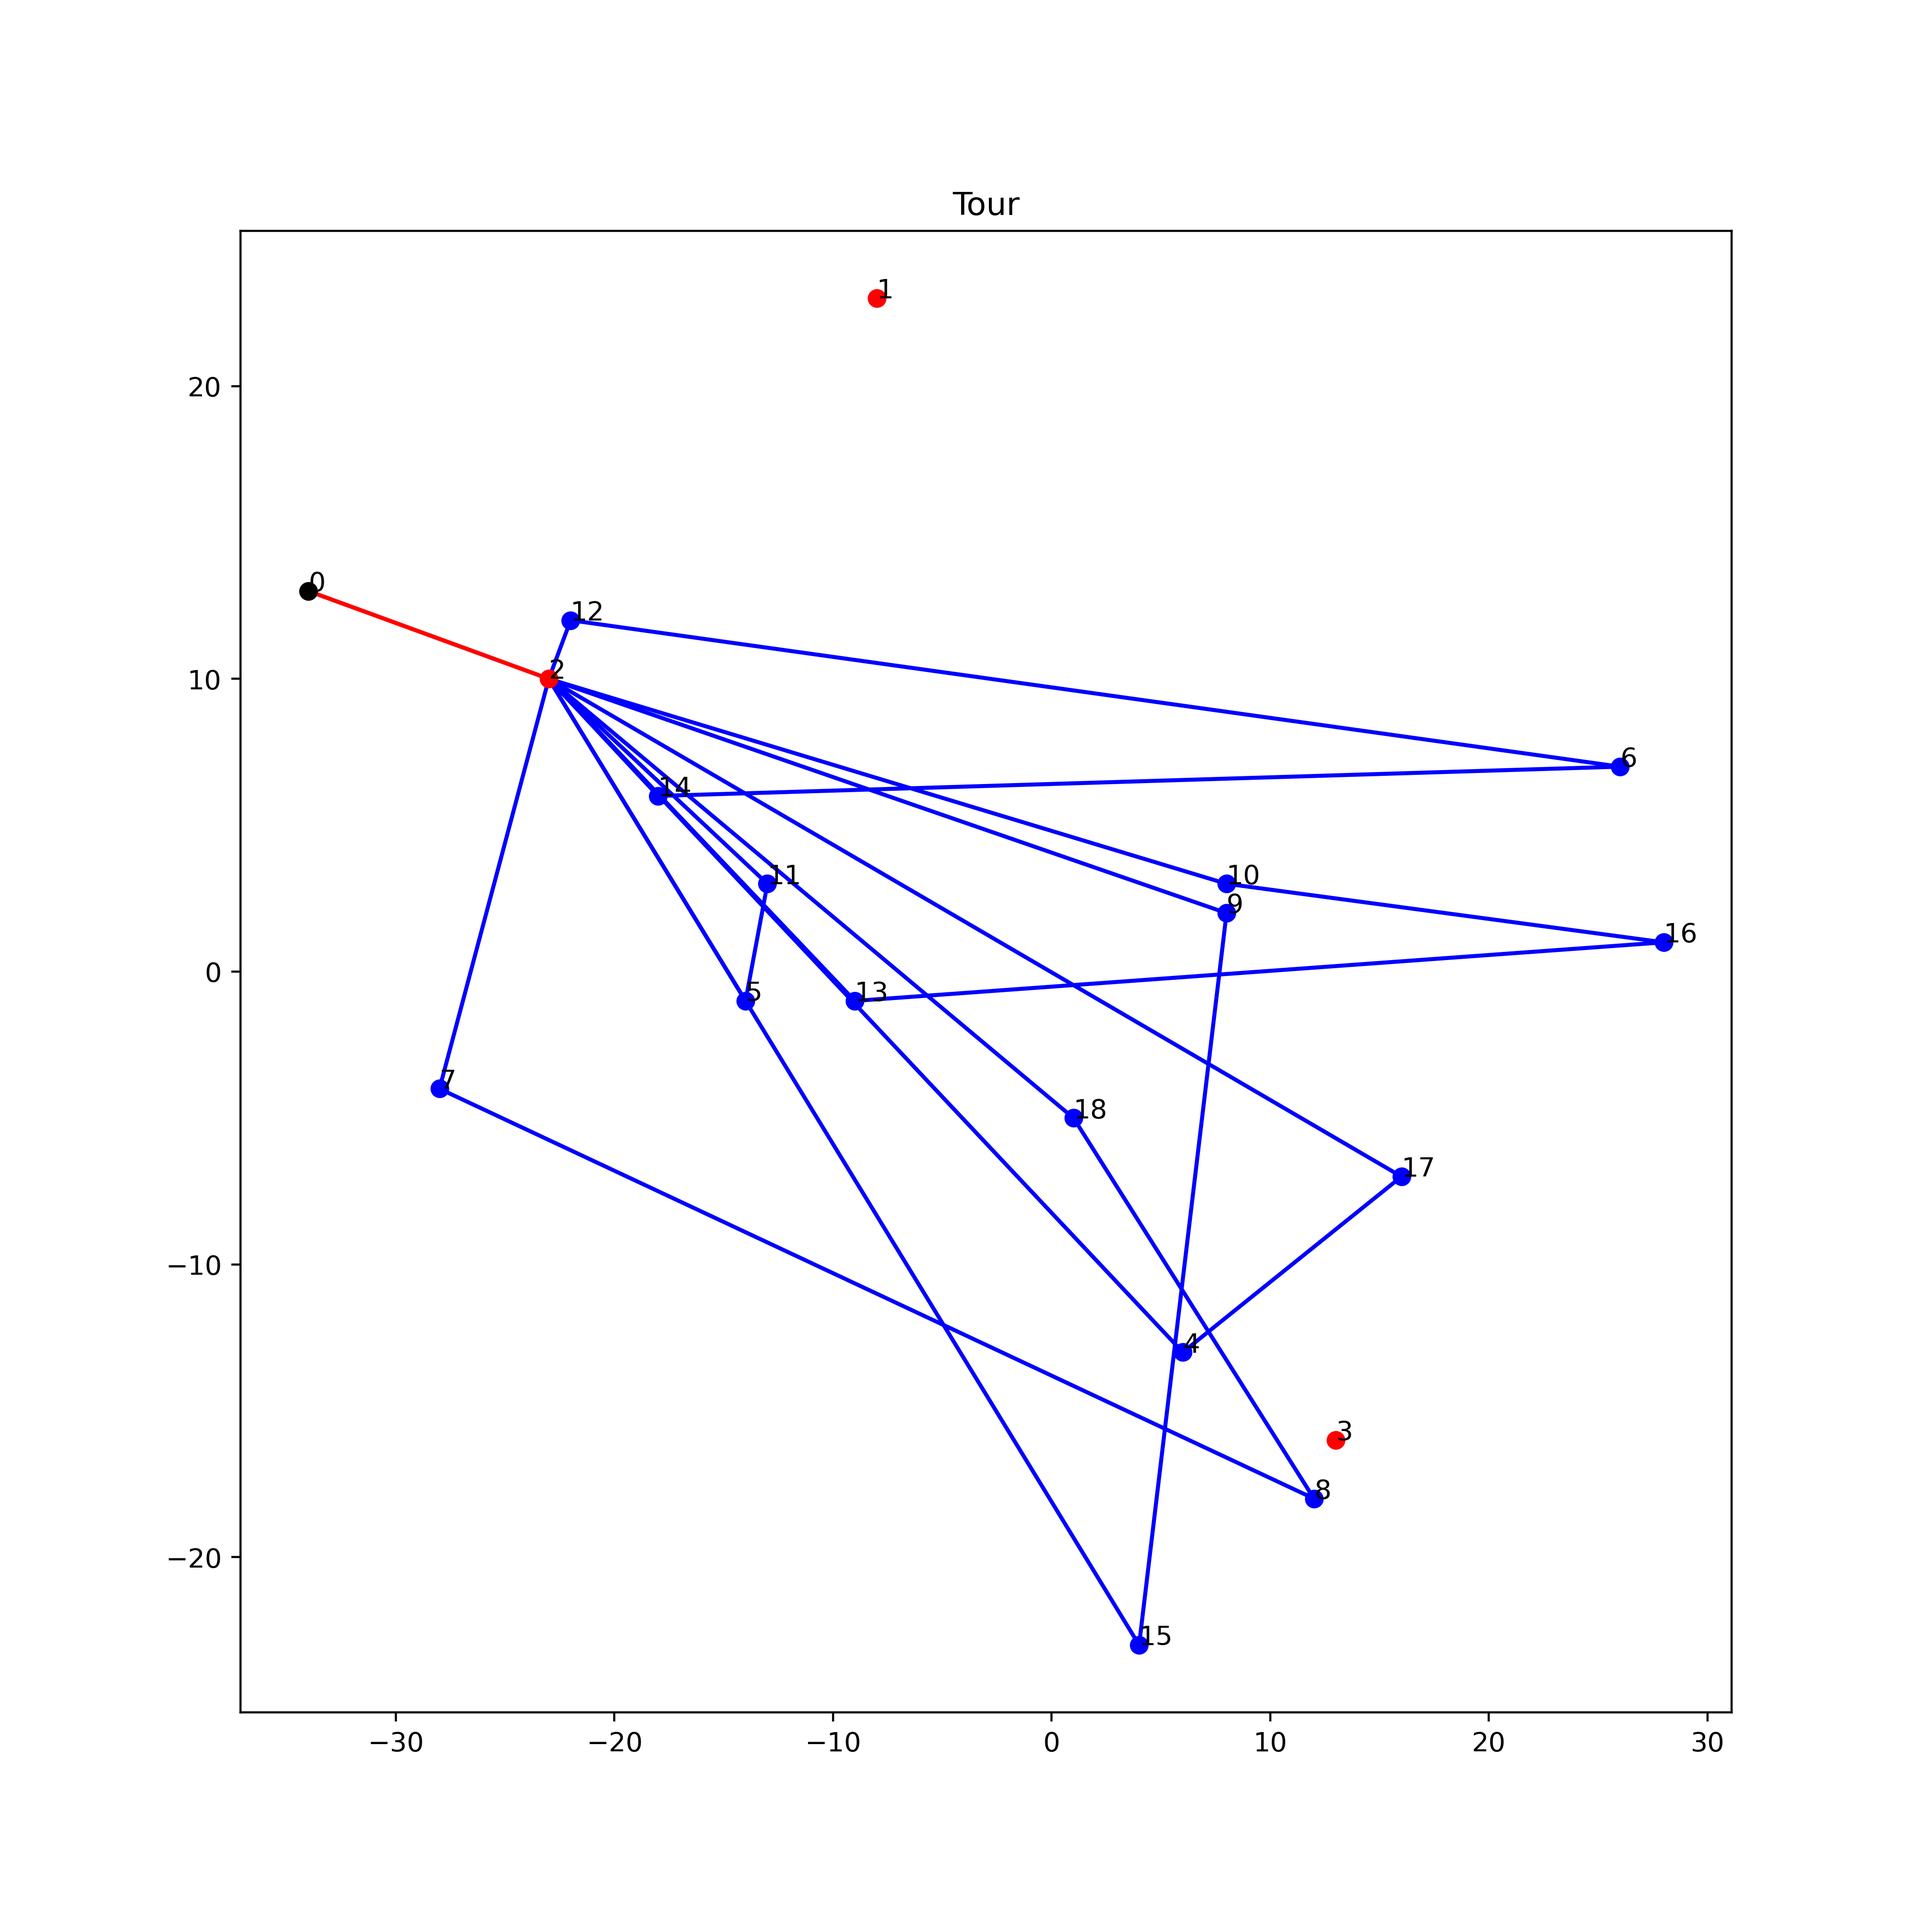
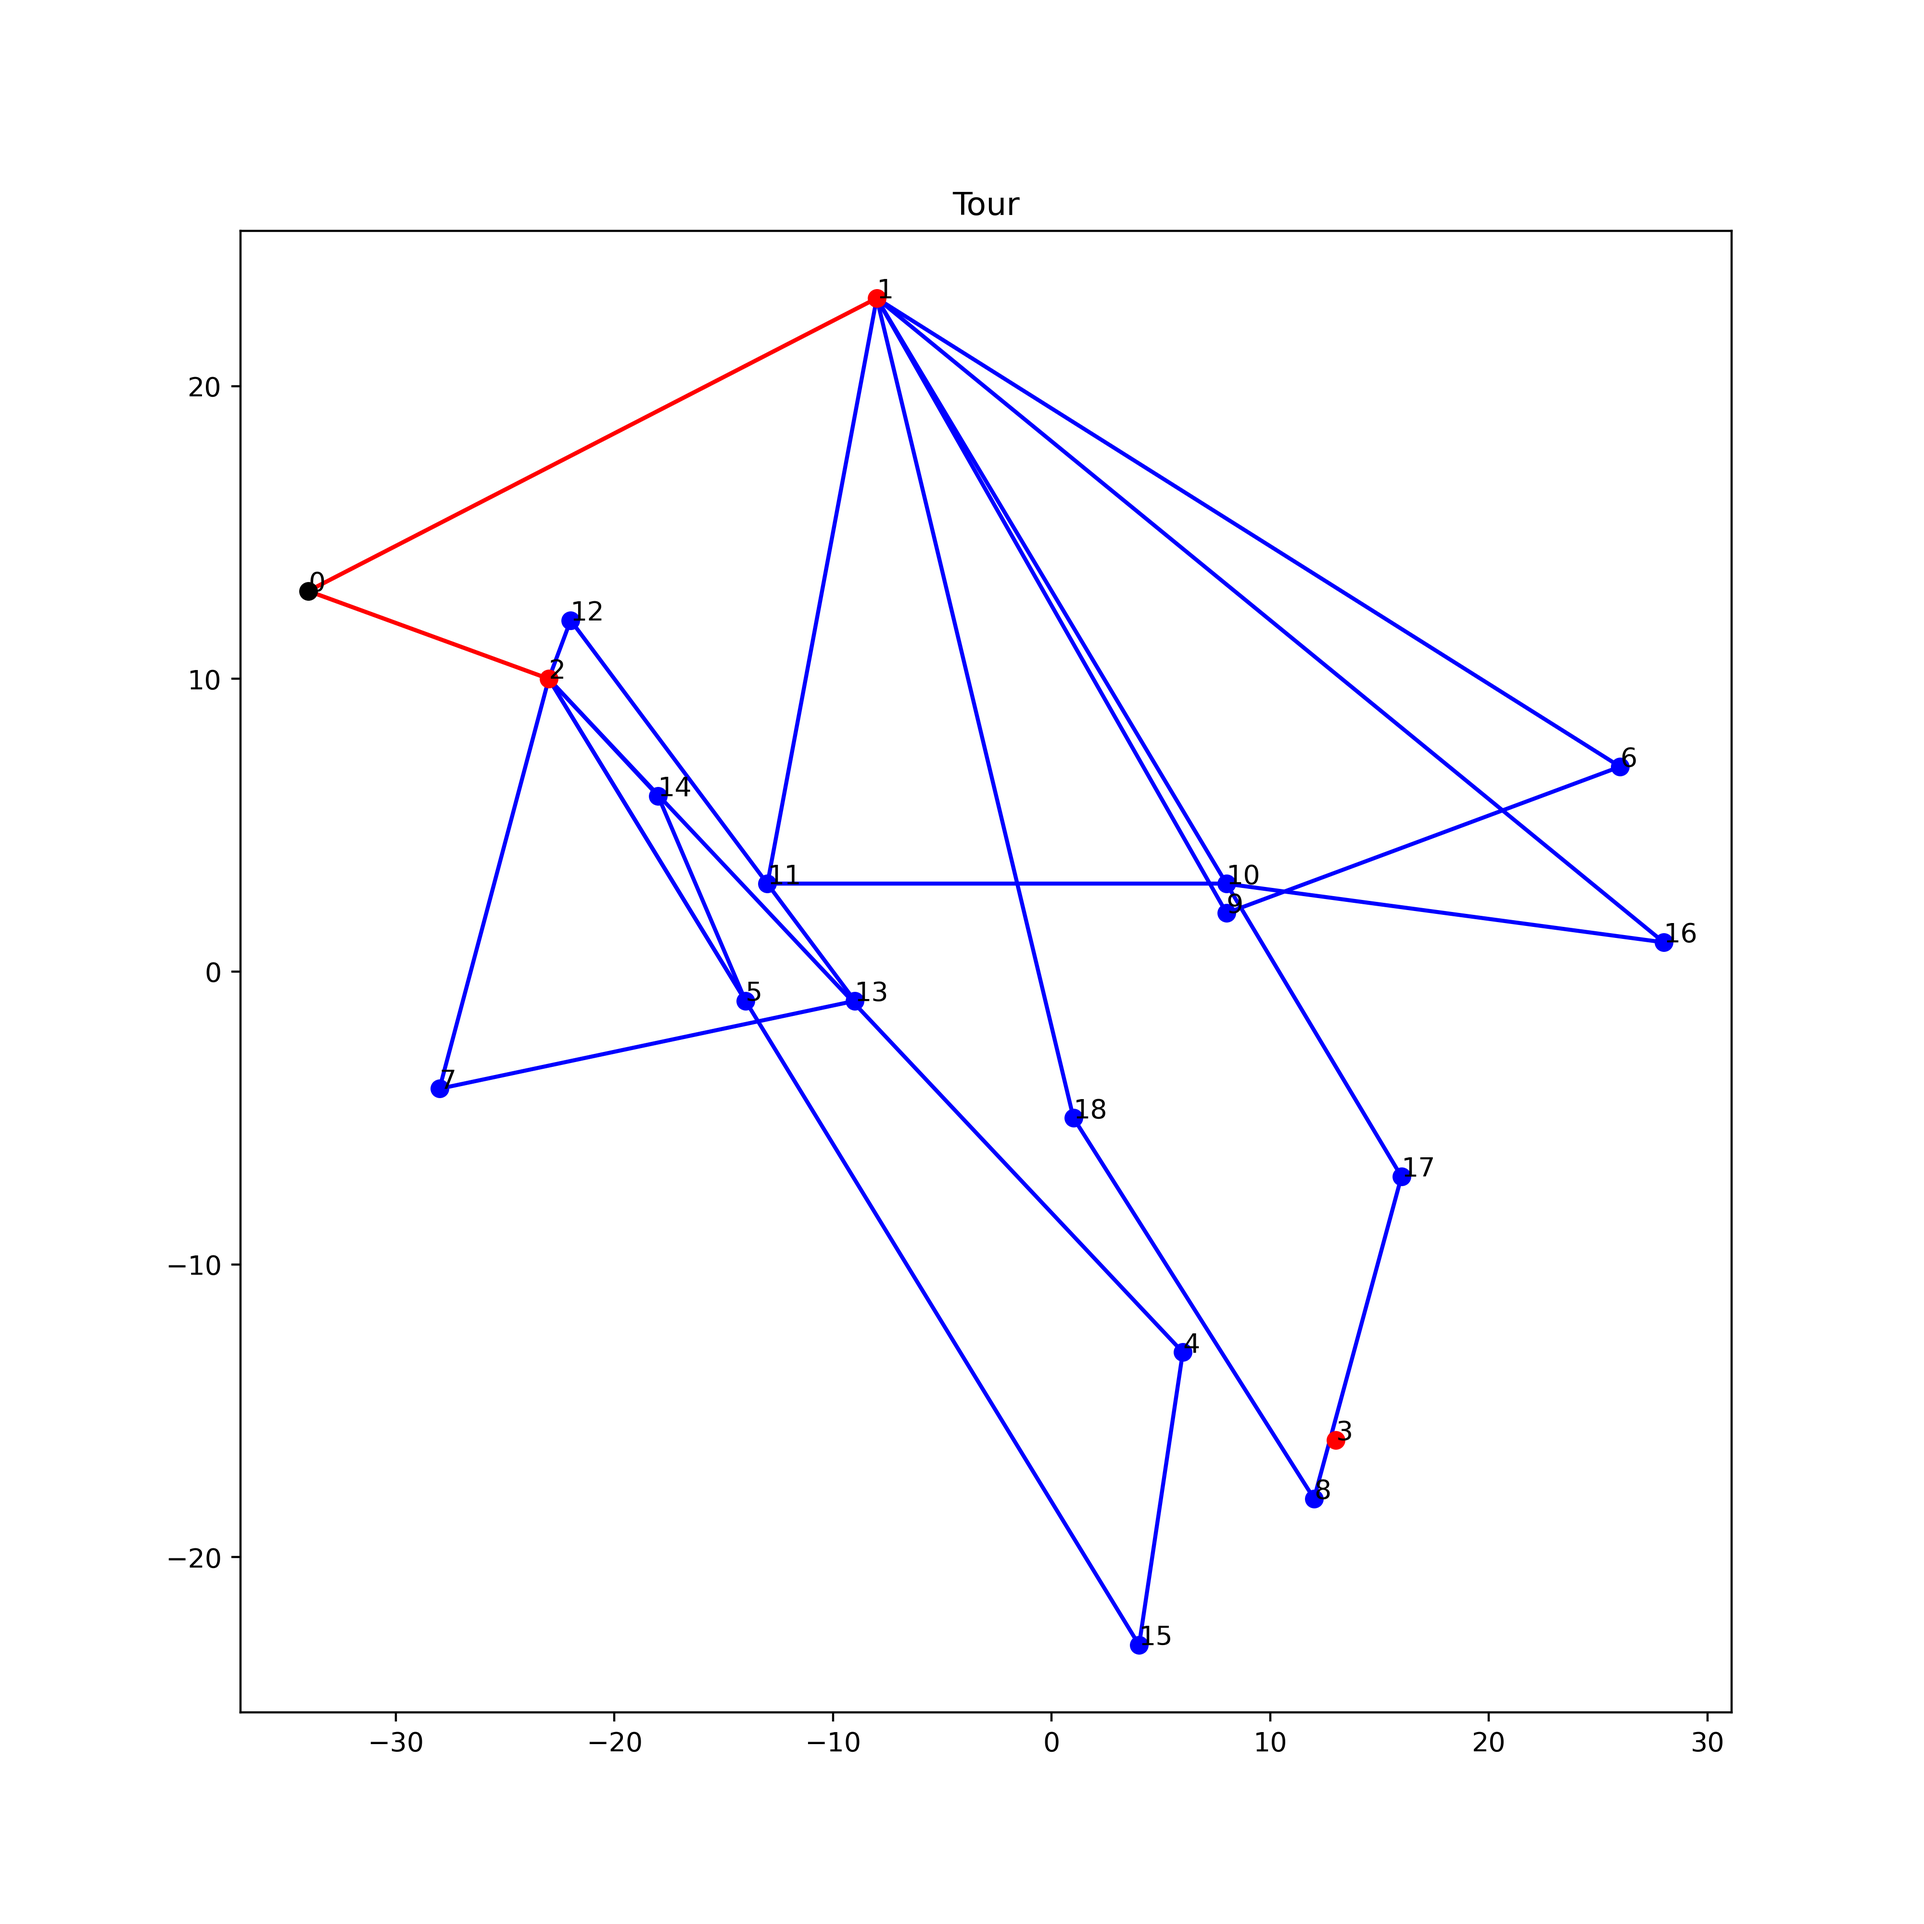
5 repairs

diff --git a/ALNS.py b/ALNS.py
@@ -213,8 +213,10 @@ class ALNS:
             self.tempSolution.executeGreedyInsertion(self.randomGen, False)
         elif repairHeuristicNr == 3:
             self.tempSolution.executeGreedyInsertion(self.randomGen, True)
-        else:
+        elif repairHeuristicNr == 4:
             self.tempSolution.executeRegretInsertion(self.randomGen, False)
+        else:
+            self.tempSolution.executeRegretInsertion(self.randomGen, True)
         tRepair = time.perf_counter()-startTime_repair
 
         #store average perform times (iterative expression)

diff --git a/Main.py b/Main.py
@@ -8,6 +8,6 @@ from Setup import instanceList
 
 if __name__ == "__main__":
     nDestroyOps = 4
-    nRepairOps = 4
+    nRepairOps = 5
     problemSet = ProblemSet(instanceList)
     problemSet.runALNS(nDestroyOps, nRepairOps)
